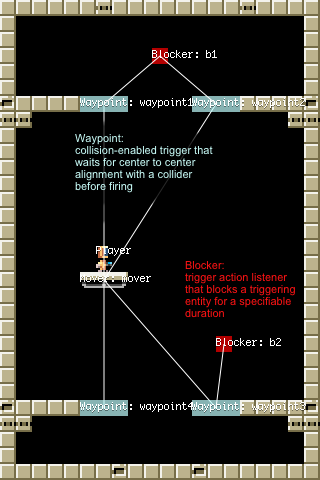
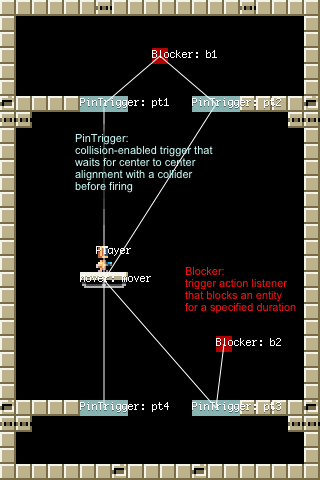
disambiguate Waypoint by renaming it to PinTrigger

diff --git a/lib/game/levels/test2.js b/lib/game/levels/test2.js
@@ -1,6 +1,6 @@
 ig.module( 'game.levels.test2' )
-.requires('impact.image','game.entities.waypoint','game.entities.waypoint','game.entities.waypoint','game.entities.waypoint','game.entities.waypoint','game.entities.waypoint','game.entities.waypoint','game.entities.waypoint','game.entities.waypoint','game.entities.waypoint','game.entities.waypoint','game.entities.waypoint','game.entities.waypoint','game.entities.waypoint','game.entities.waypoint','game.entities.waypoint','game.entities.waypoint','game.entities.waypoint','game.entities.waypoint','game.entities.waypoint','game.entities.waypoint','game.entities.waypoint','game.entities.waypoint','game.entities.waypoint','game.entities.waypoint','game.entities.waypoint','game.entities.waypoint','game.entities.waypoint','game.entities.waypoint','game.entities.waypoint','game.entities.waypoint','game.entities.waypoint','game.entities.waypoint','game.entities.waypoint','game.entities.waypoint','game.entities.waypoint','game.entities.waypoint','game.entities.waypoint','game.entities.waypoint','game.entities.waypoint','game.entities.waypoint','game.entities.waypoint','game.entities.waypoint','game.entities.waypoint','game.entities.waypoint','game.entities.waypoint','game.entities.waypoint','game.entities.waypoint','game.entities.waypoint','game.entities.waypoint','game.entities.waypoint','game.entities.mover')
+.requires('impact.image','game.entities.pin-trigger','game.entities.pin-trigger','game.entities.pin-trigger','game.entities.pin-trigger','game.entities.pin-trigger','game.entities.pin-trigger','game.entities.pin-trigger','game.entities.pin-trigger','game.entities.pin-trigger','game.entities.pin-trigger','game.entities.pin-trigger','game.entities.pin-trigger','game.entities.pin-trigger','game.entities.pin-trigger','game.entities.pin-trigger','game.entities.pin-trigger','game.entities.pin-trigger','game.entities.pin-trigger','game.entities.pin-trigger','game.entities.pin-trigger','game.entities.pin-trigger','game.entities.pin-trigger','game.entities.pin-trigger','game.entities.pin-trigger','game.entities.pin-trigger','game.entities.pin-trigger','game.entities.pin-trigger','game.entities.pin-trigger','game.entities.pin-trigger','game.entities.pin-trigger','game.entities.pin-trigger','game.entities.pin-trigger','game.entities.pin-trigger','game.entities.pin-trigger','game.entities.pin-trigger','game.entities.pin-trigger','game.entities.pin-trigger','game.entities.pin-trigger','game.entities.pin-trigger','game.entities.pin-trigger','game.entities.pin-trigger','game.entities.pin-trigger','game.entities.pin-trigger','game.entities.pin-trigger','game.entities.pin-trigger','game.entities.pin-trigger','game.entities.pin-trigger','game.entities.pin-trigger','game.entities.pin-trigger','game.entities.pin-trigger','game.entities.pin-trigger','game.entities.mover')
 .defines(function(){
-LevelTest2=/*JSON[*/{"entities":[{"type":"EntityWaypoint","x":20,"y":216,"settings":{"size":{"x":8,"y":8},"name":"w01","checks":"A"}},{"type":"EntityWaypoint","x":20,"y":200,"settings":{"size":{"x":8,"y":8},"name":"w02","checks":"A"}},{"type":"EntityWaypoint","x":20,"y":184,"settings":{"size":{"x":8,"y":8},"name":"w03","checks":"A"}},{"type":"EntityWaypoint","x":20,"y":168,"settings":{"size":{"x":8,"y":8},"name":"w04","checks":"A"}},{"type":"EntityWaypoint","x":20,"y":152,"settings":{"size":{"x":8,"y":8},"name":"w05","checks":"A"}},{"type":"EntityWaypoint","x":20,"y":136,"settings":{"size":{"x":8,"y":8},"name":"w06","checks":"A"}},{"type":"EntityWaypoint","x":20,"y":120,"settings":{"size":{"x":8,"y":8},"name":"w07","checks":"A"}},{"type":"EntityWaypoint","x":20,"y":104,"settings":{"size":{"x":8,"y":8},"name":"w08","checks":"A"}},{"type":"EntityWaypoint","x":20,"y":88,"settings":{"size":{"x":8,"y":8},"name":"w09","checks":"A"}},{"type":"EntityWaypoint","x":20,"y":72,"settings":{"size":{"x":8,"y":8},"name":"w10","checks":"A"}},{"type":"EntityWaypoint","x":20,"y":56,"settings":{"size":{"x":8,"y":8},"name":"w11","checks":"A"}},{"type":"EntityWaypoint","x":20,"y":40,"settings":{"size":{"x":8,"y":8},"name":"w12","checks":"A"}},{"type":"EntityWaypoint","x":20,"y":24,"settings":{"size":{"x":8,"y":8},"name":"w13","checks":"A"}},{"type":"EntityWaypoint","x":56,"y":40,"settings":{"size":{"x":8,"y":8},"name":"w15","checks":"A"}},{"type":"EntityWaypoint","x":56,"y":24,"settings":{"size":{"x":8,"y":8},"name":"w14","checks":"A"}},{"type":"EntityWaypoint","x":56,"y":56,"settings":{"size":{"x":8,"y":8},"name":"w16","checks":"A"}},{"type":"EntityWaypoint","x":56,"y":72,"settings":{"size":{"x":8,"y":8},"name":"w17","checks":"A"}},{"type":"EntityWaypoint","x":56,"y":88,"settings":{"size":{"x":8,"y":8},"name":"w18","checks":"A"}},{"type":"EntityWaypoint","x":56,"y":104,"settings":{"size":{"x":8,"y":8},"name":"w19","checks":"A"}},{"type":"EntityWaypoint","x":56,"y":120,"settings":{"size":{"x":8,"y":8},"name":"w20","checks":"A"}},{"type":"EntityWaypoint","x":56,"y":136,"settings":{"size":{"x":8,"y":8},"name":"w21","checks":"A"}},{"type":"EntityWaypoint","x":56,"y":152,"settings":{"size":{"x":8,"y":8},"name":"w21","checks":"A"}},{"type":"EntityWaypoint","x":56,"y":168,"settings":{"size":{"x":8,"y":8},"name":"w22","checks":"A"}},{"type":"EntityWaypoint","x":56,"y":184,"settings":{"size":{"x":8,"y":8},"name":"w23","checks":"A"}},{"type":"EntityWaypoint","x":56,"y":200,"settings":{"size":{"x":8,"y":8},"name":"w24","checks":"A"}},{"type":"EntityWaypoint","x":56,"y":216,"settings":{"size":{"x":8,"y":8},"name":"w25","checks":"A"}},{"type":"EntityWaypoint","x":92,"y":216,"settings":{"size":{"x":8,"y":8},"name":"w26","checks":"A"}},{"type":"EntityWaypoint","x":92,"y":200,"settings":{"size":{"x":8,"y":8},"name":"w27","checks":"A"}},{"type":"EntityWaypoint","x":92,"y":184,"settings":{"size":{"x":8,"y":8},"name":"w28","checks":"A"}},{"type":"EntityWaypoint","x":92,"y":168,"settings":{"size":{"x":8,"y":8},"name":"w29","checks":"A"}},{"type":"EntityWaypoint","x":92,"y":152,"settings":{"size":{"x":8,"y":8},"name":"w30","checks":"A"}},{"type":"EntityWaypoint","x":92,"y":136,"settings":{"size":{"x":8,"y":8},"name":"w31","checks":"A"}},{"type":"EntityWaypoint","x":92,"y":120,"settings":{"size":{"x":8,"y":8},"name":"w32","checks":"A"}},{"type":"EntityWaypoint","x":92,"y":104,"settings":{"size":{"x":8,"y":8},"name":"w33","checks":"A"}},{"type":"EntityWaypoint","x":92,"y":88,"settings":{"size":{"x":8,"y":8},"name":"w34","checks":"A"}},{"type":"EntityWaypoint","x":92,"y":72,"settings":{"size":{"x":8,"y":8},"name":"w35","checks":"A"}},{"type":"EntityWaypoint","x":92,"y":56,"settings":{"size":{"x":8,"y":8},"name":"w36","checks":"A"}},{"type":"EntityWaypoint","x":92,"y":40,"settings":{"size":{"x":8,"y":8},"name":"w37","checks":"A"}},{"type":"EntityWaypoint","x":92,"y":24,"settings":{"size":{"x":8,"y":8},"name":"w38","checks":"A"}},{"type":"EntityWaypoint","x":132,"y":24,"settings":{"size":{"x":8,"y":8},"name":"w39","checks":"A"}},{"type":"EntityWaypoint","x":132,"y":40,"settings":{"size":{"x":8,"y":8},"name":"w40","checks":"A"}},{"type":"EntityWaypoint","x":132,"y":56,"settings":{"size":{"x":8,"y":8},"name":"w41","checks":"A"}},{"type":"EntityWaypoint","x":132,"y":72,"settings":{"size":{"x":8,"y":8},"name":"w42","checks":"A"}},{"type":"EntityWaypoint","x":132,"y":88,"settings":{"size":{"x":8,"y":8},"name":"w43","checks":"A"}},{"type":"EntityWaypoint","x":132,"y":104,"settings":{"size":{"x":8,"y":8},"name":"w44","checks":"A"}},{"type":"EntityWaypoint","x":132,"y":120,"settings":{"size":{"x":8,"y":8},"name":"w45","checks":"A"}},{"type":"EntityWaypoint","x":132,"y":136,"settings":{"size":{"x":8,"y":8},"name":"w46","checks":"A"}},{"type":"EntityWaypoint","x":132,"y":152,"settings":{"size":{"x":8,"y":8},"name":"w47","checks":"A"}},{"type":"EntityWaypoint","x":132,"y":168,"settings":{"size":{"x":8,"y":8},"name":"w48","checks":"A"}},{"type":"EntityWaypoint","x":132,"y":184,"settings":{"size":{"x":8,"y":8},"name":"w49","checks":"A"}},{"type":"EntityWaypoint","x":132,"y":200,"settings":{"size":{"x":8,"y":8},"name":"w50","checks":"A"}},{"type":"EntityMover","x":12,"y":216,"settings":{"target":{"10":"w10","11":"w11","12":"w12","13":"w13","14":"w14","15":"w15","16":"w16","17":"w17","18":"w18","19":"w19","20":"w20","21":"w21","22":"w22","23":"w23","24":"w24","25":"w25","26":"w26","27":"w27","28":"w28","29":"w29","30":"w30","31":"w31","32":"w32","33":"w33","34":"w34","35":"w35","36":"w36","37":"w37","38":"w38","39":"w39","40":"w40","41":"w41","42":"w42","43":"w43","44":"w44","45":"w45","46":"w46","47":"w47","48":"w48","49":"w49","50":"w50","01":"w01","02":"w02","03":"w03","04":"w04","05":"w05","06":"w06","07":"w07","08":"w08","09":"w09"},"name":"mover"}}],"layer":[{"name":"collision","width":20,"height":30,"linkWithCollision":false,"visible":1,"tilesetName":"","repeat":false,"preRender":false,"distance":"1","tilesize":8,"foreground":false,"data":[[1,1,1,1,1,1,1,1,1,1,1,1,1,1,1,1,1,1,1,1],[1,0,0,0,0,0,0,0,0,0,0,0,0,0,0,0,0,0,0,1],[1,0,0,0,0,0,0,0,0,0,0,0,0,0,0,0,0,0,0,1],[1,0,0,0,0,0,0,0,0,0,0,0,0,0,0,0,0,0,0,1],[1,0,0,0,0,0,0,0,0,0,0,0,0,0,0,0,0,0,0,1],[1,0,0,0,0,0,0,0,0,0,0,0,0,0,0,0,0,0,0,1],[1,0,0,0,0,0,0,0,0,0,0,0,0,0,0,0,0,0,0,1],[1,0,0,0,0,0,0,0,0,0,0,0,0,0,0,0,0,0,0,1],[1,0,0,0,0,0,0,0,0,0,0,0,0,0,0,0,0,0,0,1],[1,0,0,0,0,0,0,0,0,0,0,0,0,0,0,0,0,0,0,1],[1,0,0,0,0,0,0,0,0,0,0,0,0,0,0,0,0,0,0,1],[1,0,0,0,0,0,0,0,0,0,0,0,0,0,0,0,0,0,0,1],[1,0,0,0,0,0,0,0,0,0,0,0,0,0,0,0,0,0,0,1],[1,0,0,0,0,0,0,0,0,0,0,0,0,0,0,0,0,0,0,1],[1,0,0,0,0,0,0,0,0,0,0,0,0,0,0,0,0,0,0,1],[1,0,0,0,0,0,0,0,0,0,0,0,0,0,0,0,0,0,0,1],[1,0,0,0,0,0,0,0,0,0,0,0,0,0,0,0,0,0,0,1],[1,0,0,0,0,0,0,0,0,0,0,0,0,0,0,0,0,0,0,1],[1,0,0,0,0,0,0,0,0,0,0,0,0,0,0,0,0,0,0,1],[1,0,0,0,0,0,0,0,0,0,0,0,0,0,0,0,0,0,0,1],[1,0,0,0,0,0,0,0,0,0,0,0,0,0,0,0,0,0,0,1],[1,0,0,0,0,0,0,0,0,0,0,0,0,0,0,0,0,0,0,1],[1,0,0,0,0,0,0,0,0,0,0,0,0,0,0,0,0,0,0,1],[1,0,0,0,0,0,0,0,0,0,0,0,0,0,0,0,0,0,0,1],[1,0,0,0,0,0,0,0,0,0,0,0,0,0,0,0,0,0,0,1],[1,0,0,0,0,0,0,0,0,0,0,0,0,0,0,0,0,0,0,1],[1,0,0,0,0,0,0,0,0,0,0,0,0,0,0,0,0,0,0,1],[1,0,0,0,0,0,0,0,0,0,0,0,0,0,0,0,0,0,0,1],[1,0,0,0,0,0,0,0,0,0,0,0,0,0,0,0,0,0,0,1],[1,1,1,1,1,1,1,1,1,1,1,1,1,1,1,1,1,1,1,1]]},{"name":"main","width":20,"height":30,"linkWithCollision":true,"visible":1,"tilesetName":"media/tiles.png","repeat":false,"preRender":false,"distance":"1","tilesize":8,"foreground":false,"data":[[1,1,1,1,1,1,2,1,1,1,1,1,1,1,1,2,1,1,1,1],[1,0,0,0,0,0,0,0,0,0,0,0,0,0,0,0,0,0,0,1],[1,0,0,0,0,0,0,0,0,0,0,0,0,0,0,0,0,0,0,1],[1,0,0,0,0,0,0,0,0,0,0,0,0,0,0,0,0,0,0,1],[1,0,0,0,0,0,0,0,0,0,0,0,0,0,0,0,0,0,0,1],[1,0,0,0,0,0,0,0,0,0,0,0,0,0,0,0,0,0,0,1],[4,0,0,0,0,0,0,0,0,0,0,0,0,0,0,0,0,0,0,4],[2,0,0,0,0,0,0,0,0,0,0,0,0,0,0,0,0,0,0,2],[1,0,0,0,0,0,0,0,0,0,0,0,0,0,0,0,0,0,0,1],[1,0,0,0,0,0,0,0,0,0,0,0,0,0,0,0,0,0,0,1],[1,0,0,0,0,0,0,0,0,0,0,0,0,0,0,0,0,0,0,1],[1,0,0,0,0,0,0,0,0,0,0,0,0,0,0,0,0,0,0,1],[1,0,0,0,0,0,0,0,0,0,0,0,0,0,0,0,0,0,0,1],[1,0,0,0,0,0,0,0,0,0,0,0,0,0,0,0,0,0,0,1],[1,0,0,0,0,0,0,0,0,0,0,0,0,0,0,0,0,0,0,1],[1,0,0,0,0,0,0,0,0,0,0,0,0,0,0,0,0,0,0,1],[1,0,0,0,0,0,0,0,0,0,0,0,0,0,0,0,0,0,0,1],[1,0,0,0,0,0,0,0,0,0,0,0,0,0,0,0,0,0,0,1],[1,0,0,0,0,0,0,0,0,0,0,0,0,0,0,0,0,0,0,1],[1,0,0,0,0,0,0,0,0,0,0,0,0,0,0,0,0,0,0,1],[1,0,0,0,0,0,0,0,0,0,0,0,0,0,0,0,0,0,0,1],[1,0,0,0,0,0,0,0,0,0,0,0,0,0,0,0,0,0,0,1],[1,0,0,0,0,0,0,0,0,0,0,0,0,0,0,0,0,0,0,1],[1,0,0,0,0,0,0,0,0,0,0,0,0,0,0,0,0,0,0,1],[1,0,0,0,0,0,0,0,0,0,0,0,0,0,0,0,0,0,0,1],[4,0,0,0,0,0,0,0,0,0,0,0,0,0,0,0,0,0,0,4],[2,0,0,0,0,0,0,0,0,0,0,0,0,0,0,0,0,0,0,2],[1,0,0,0,0,0,0,0,0,0,0,0,0,0,0,0,0,0,0,1],[1,0,0,0,0,0,0,0,0,0,0,0,0,0,0,0,0,0,0,1],[1,1,1,1,1,1,1,4,1,1,1,1,4,1,1,1,1,1,1,1]]}]}/*]JSON*/;
+LevelTest2=/*JSON[*/{"entities":[{"type":"EntityPinTrigger","x":20,"y":216,"settings":{"size":{"x":8,"y":8},"name":"pt01","checks":"A"}},{"type":"EntityPinTrigger","x":20,"y":200,"settings":{"size":{"x":8,"y":8},"name":"pt02","checks":"A"}},{"type":"EntityPinTrigger","x":20,"y":184,"settings":{"size":{"x":8,"y":8},"name":"pt03","checks":"A"}},{"type":"EntityPinTrigger","x":20,"y":168,"settings":{"size":{"x":8,"y":8},"name":"pt04","checks":"A"}},{"type":"EntityPinTrigger","x":20,"y":152,"settings":{"size":{"x":8,"y":8},"name":"pt05","checks":"A"}},{"type":"EntityPinTrigger","x":20,"y":136,"settings":{"size":{"x":8,"y":8},"name":"pt06","checks":"A"}},{"type":"EntityPinTrigger","x":20,"y":120,"settings":{"size":{"x":8,"y":8},"name":"pt07","checks":"A"}},{"type":"EntityPinTrigger","x":20,"y":104,"settings":{"size":{"x":8,"y":8},"name":"pt08","checks":"A"}},{"type":"EntityPinTrigger","x":20,"y":88,"settings":{"size":{"x":8,"y":8},"name":"pt09","checks":"A"}},{"type":"EntityPinTrigger","x":20,"y":72,"settings":{"size":{"x":8,"y":8},"name":"pt10","checks":"A"}},{"type":"EntityPinTrigger","x":20,"y":56,"settings":{"size":{"x":8,"y":8},"name":"pt11","checks":"A"}},{"type":"EntityPinTrigger","x":20,"y":40,"settings":{"size":{"x":8,"y":8},"name":"pt12","checks":"A"}},{"type":"EntityPinTrigger","x":20,"y":24,"settings":{"size":{"x":8,"y":8},"name":"pt13","checks":"A"}},{"type":"EntityPinTrigger","x":56,"y":40,"settings":{"size":{"x":8,"y":8},"name":"pt15","checks":"A"}},{"type":"EntityPinTrigger","x":56,"y":24,"settings":{"size":{"x":8,"y":8},"name":"pt14","checks":"A"}},{"type":"EntityPinTrigger","x":56,"y":56,"settings":{"size":{"x":8,"y":8},"name":"pt16","checks":"A"}},{"type":"EntityPinTrigger","x":56,"y":72,"settings":{"size":{"x":8,"y":8},"name":"pt17","checks":"A"}},{"type":"EntityPinTrigger","x":56,"y":88,"settings":{"size":{"x":8,"y":8},"name":"pt18","checks":"A"}},{"type":"EntityPinTrigger","x":56,"y":104,"settings":{"size":{"x":8,"y":8},"name":"pt19","checks":"A"}},{"type":"EntityPinTrigger","x":56,"y":120,"settings":{"size":{"x":8,"y":8},"name":"pt20","checks":"A"}},{"type":"EntityPinTrigger","x":56,"y":136,"settings":{"size":{"x":8,"y":8},"name":"pt21","checks":"A"}},{"type":"EntityPinTrigger","x":56,"y":152,"settings":{"size":{"x":8,"y":8},"name":"pt21","checks":"A"}},{"type":"EntityPinTrigger","x":56,"y":168,"settings":{"size":{"x":8,"y":8},"name":"pt22","checks":"A"}},{"type":"EntityPinTrigger","x":56,"y":184,"settings":{"size":{"x":8,"y":8},"name":"pt23","checks":"A"}},{"type":"EntityPinTrigger","x":56,"y":200,"settings":{"size":{"x":8,"y":8},"name":"pt24","checks":"A"}},{"type":"EntityPinTrigger","x":56,"y":216,"settings":{"size":{"x":8,"y":8},"name":"pt25","checks":"A"}},{"type":"EntityPinTrigger","x":92,"y":216,"settings":{"size":{"x":8,"y":8},"name":"pt26","checks":"A"}},{"type":"EntityPinTrigger","x":92,"y":200,"settings":{"size":{"x":8,"y":8},"name":"pt27","checks":"A"}},{"type":"EntityPinTrigger","x":92,"y":184,"settings":{"size":{"x":8,"y":8},"name":"pt28","checks":"A"}},{"type":"EntityPinTrigger","x":92,"y":168,"settings":{"size":{"x":8,"y":8},"name":"pt29","checks":"A"}},{"type":"EntityPinTrigger","x":92,"y":152,"settings":{"size":{"x":8,"y":8},"name":"pt30","checks":"A"}},{"type":"EntityPinTrigger","x":92,"y":136,"settings":{"size":{"x":8,"y":8},"name":"pt31","checks":"A"}},{"type":"EntityPinTrigger","x":92,"y":120,"settings":{"size":{"x":8,"y":8},"name":"pt32","checks":"A"}},{"type":"EntityPinTrigger","x":92,"y":104,"settings":{"size":{"x":8,"y":8},"name":"pt33","checks":"A"}},{"type":"EntityPinTrigger","x":92,"y":88,"settings":{"size":{"x":8,"y":8},"name":"pt34","checks":"A"}},{"type":"EntityPinTrigger","x":92,"y":72,"settings":{"size":{"x":8,"y":8},"name":"pt35","checks":"A"}},{"type":"EntityPinTrigger","x":92,"y":56,"settings":{"size":{"x":8,"y":8},"name":"pt36","checks":"A"}},{"type":"EntityPinTrigger","x":92,"y":40,"settings":{"size":{"x":8,"y":8},"name":"pt37","checks":"A"}},{"type":"EntityPinTrigger","x":92,"y":24,"settings":{"size":{"x":8,"y":8},"name":"pt38","checks":"A"}},{"type":"EntityPinTrigger","x":132,"y":24,"settings":{"size":{"x":8,"y":8},"name":"pt39","checks":"A"}},{"type":"EntityPinTrigger","x":132,"y":40,"settings":{"size":{"x":8,"y":8},"name":"pt40","checks":"A"}},{"type":"EntityPinTrigger","x":132,"y":56,"settings":{"size":{"x":8,"y":8},"name":"pt41","checks":"A"}},{"type":"EntityPinTrigger","x":132,"y":72,"settings":{"size":{"x":8,"y":8},"name":"pt42","checks":"A"}},{"type":"EntityPinTrigger","x":132,"y":88,"settings":{"size":{"x":8,"y":8},"name":"pt43","checks":"A"}},{"type":"EntityPinTrigger","x":132,"y":104,"settings":{"size":{"x":8,"y":8},"name":"pt44","checks":"A"}},{"type":"EntityPinTrigger","x":132,"y":120,"settings":{"size":{"x":8,"y":8},"name":"pt45","checks":"A"}},{"type":"EntityPinTrigger","x":132,"y":136,"settings":{"size":{"x":8,"y":8},"name":"pt46","checks":"A"}},{"type":"EntityPinTrigger","x":132,"y":152,"settings":{"size":{"x":8,"y":8},"name":"pt47","checks":"A"}},{"type":"EntityPinTrigger","x":132,"y":168,"settings":{"size":{"x":8,"y":8},"name":"pt48","checks":"A"}},{"type":"EntityPinTrigger","x":132,"y":184,"settings":{"size":{"x":8,"y":8},"name":"pt49","checks":"A"}},{"type":"EntityPinTrigger","x":132,"y":200,"settings":{"size":{"x":8,"y":8},"name":"pt50","checks":"A"}},{"type":"EntityMover","x":12,"y":216,"settings":{"target":{"10":"pt10","11":"pt11","12":"pt12","13":"pt13","14":"pt14","15":"pt15","16":"pt16","17":"pt17","18":"pt18","19":"pt19","20":"pt20","21":"pt21","22":"pt22","23":"pt23","24":"pt24","25":"pt25","26":"pt26","27":"pt27","28":"pt28","29":"pt29","30":"pt30","31":"pt31","32":"pt32","33":"pt33","34":"pt34","35":"pt35","36":"pt36","37":"pt37","38":"pt38","39":"pt39","40":"pt40","41":"pt41","42":"pt42","43":"pt43","44":"pt44","45":"pt45","46":"pt46","47":"pt47","48":"pt48","49":"pt49","50":"pt50","01":"pt01","02":"pt02","03":"pt03","04":"pt04","05":"pt05","06":"pt06","07":"pt07","08":"pt08","09":"pt09"},"name":"mover"}}],"layer":[{"name":"collision","width":20,"height":30,"linkWithCollision":false,"visible":1,"tilesetName":"","repeat":false,"preRender":false,"distance":"1","tilesize":8,"foreground":false,"data":[[1,1,1,1,1,1,1,1,1,1,1,1,1,1,1,1,1,1,1,1],[1,0,0,0,0,0,0,0,0,0,0,0,0,0,0,0,0,0,0,1],[1,0,0,0,0,0,0,0,0,0,0,0,0,0,0,0,0,0,0,1],[1,0,0,0,0,0,0,0,0,0,0,0,0,0,0,0,0,0,0,1],[1,0,0,0,0,0,0,0,0,0,0,0,0,0,0,0,0,0,0,1],[1,0,0,0,0,0,0,0,0,0,0,0,0,0,0,0,0,0,0,1],[1,0,0,0,0,0,0,0,0,0,0,0,0,0,0,0,0,0,0,1],[1,0,0,0,0,0,0,0,0,0,0,0,0,0,0,0,0,0,0,1],[1,0,0,0,0,0,0,0,0,0,0,0,0,0,0,0,0,0,0,1],[1,0,0,0,0,0,0,0,0,0,0,0,0,0,0,0,0,0,0,1],[1,0,0,0,0,0,0,0,0,0,0,0,0,0,0,0,0,0,0,1],[1,0,0,0,0,0,0,0,0,0,0,0,0,0,0,0,0,0,0,1],[1,0,0,0,0,0,0,0,0,0,0,0,0,0,0,0,0,0,0,1],[1,0,0,0,0,0,0,0,0,0,0,0,0,0,0,0,0,0,0,1],[1,0,0,0,0,0,0,0,0,0,0,0,0,0,0,0,0,0,0,1],[1,0,0,0,0,0,0,0,0,0,0,0,0,0,0,0,0,0,0,1],[1,0,0,0,0,0,0,0,0,0,0,0,0,0,0,0,0,0,0,1],[1,0,0,0,0,0,0,0,0,0,0,0,0,0,0,0,0,0,0,1],[1,0,0,0,0,0,0,0,0,0,0,0,0,0,0,0,0,0,0,1],[1,0,0,0,0,0,0,0,0,0,0,0,0,0,0,0,0,0,0,1],[1,0,0,0,0,0,0,0,0,0,0,0,0,0,0,0,0,0,0,1],[1,0,0,0,0,0,0,0,0,0,0,0,0,0,0,0,0,0,0,1],[1,0,0,0,0,0,0,0,0,0,0,0,0,0,0,0,0,0,0,1],[1,0,0,0,0,0,0,0,0,0,0,0,0,0,0,0,0,0,0,1],[1,0,0,0,0,0,0,0,0,0,0,0,0,0,0,0,0,0,0,1],[1,0,0,0,0,0,0,0,0,0,0,0,0,0,0,0,0,0,0,1],[1,0,0,0,0,0,0,0,0,0,0,0,0,0,0,0,0,0,0,1],[1,0,0,0,0,0,0,0,0,0,0,0,0,0,0,0,0,0,0,1],[1,0,0,0,0,0,0,0,0,0,0,0,0,0,0,0,0,0,0,1],[1,1,1,1,1,1,1,1,1,1,1,1,1,1,1,1,1,1,1,1]]},{"name":"main","width":20,"height":30,"linkWithCollision":true,"visible":1,"tilesetName":"media/tiles.png","repeat":false,"preRender":false,"distance":"1","tilesize":8,"foreground":false,"data":[[1,1,1,1,1,1,2,1,1,1,1,1,1,1,1,2,1,1,1,1],[1,0,0,0,0,0,0,0,0,0,0,0,0,0,0,0,0,0,0,1],[1,0,0,0,0,0,0,0,0,0,0,0,0,0,0,0,0,0,0,1],[1,0,0,0,0,0,0,0,0,0,0,0,0,0,0,0,0,0,0,1],[1,0,0,0,0,0,0,0,0,0,0,0,0,0,0,0,0,0,0,1],[1,0,0,0,0,0,0,0,0,0,0,0,0,0,0,0,0,0,0,1],[4,0,0,0,0,0,0,0,0,0,0,0,0,0,0,0,0,0,0,4],[2,0,0,0,0,0,0,0,0,0,0,0,0,0,0,0,0,0,0,2],[1,0,0,0,0,0,0,0,0,0,0,0,0,0,0,0,0,0,0,1],[1,0,0,0,0,0,0,0,0,0,0,0,0,0,0,0,0,0,0,1],[1,0,0,0,0,0,0,0,0,0,0,0,0,0,0,0,0,0,0,1],[1,0,0,0,0,0,0,0,0,0,0,0,0,0,0,0,0,0,0,1],[1,0,0,0,0,0,0,0,0,0,0,0,0,0,0,0,0,0,0,1],[1,0,0,0,0,0,0,0,0,0,0,0,0,0,0,0,0,0,0,1],[1,0,0,0,0,0,0,0,0,0,0,0,0,0,0,0,0,0,0,1],[1,0,0,0,0,0,0,0,0,0,0,0,0,0,0,0,0,0,0,1],[1,0,0,0,0,0,0,0,0,0,0,0,0,0,0,0,0,0,0,1],[1,0,0,0,0,0,0,0,0,0,0,0,0,0,0,0,0,0,0,1],[1,0,0,0,0,0,0,0,0,0,0,0,0,0,0,0,0,0,0,1],[1,0,0,0,0,0,0,0,0,0,0,0,0,0,0,0,0,0,0,1],[1,0,0,0,0,0,0,0,0,0,0,0,0,0,0,0,0,0,0,1],[1,0,0,0,0,0,0,0,0,0,0,0,0,0,0,0,0,0,0,1],[1,0,0,0,0,0,0,0,0,0,0,0,0,0,0,0,0,0,0,1],[1,0,0,0,0,0,0,0,0,0,0,0,0,0,0,0,0,0,0,1],[1,0,0,0,0,0,0,0,0,0,0,0,0,0,0,0,0,0,0,1],[4,0,0,0,0,0,0,0,0,0,0,0,0,0,0,0,0,0,0,4],[2,0,0,0,0,0,0,0,0,0,0,0,0,0,0,0,0,0,0,2],[1,0,0,0,0,0,0,0,0,0,0,0,0,0,0,0,0,0,0,1],[1,0,0,0,0,0,0,0,0,0,0,0,0,0,0,0,0,0,0,1],[1,1,1,1,1,1,1,4,1,1,1,1,4,1,1,1,1,1,1,1]]}]}/*]JSON*/;
 LevelTest2Resources=[new ig.Image('media/tiles.png')];
 });

diff --git a/lib/game/levels/test.js b/lib/game/levels/test.js
@@ -1,6 +1,6 @@
 ig.module( 'game.levels.test' )
-.requires('impact.image','game.entities.player','game.entities.mover','game.entities.blocker','game.entities.blocker','game.entities.waypoint','game.entities.waypoint','game.entities.waypoint','game.entities.waypoint')
+.requires('impact.image','game.entities.player','game.entities.mover','game.entities.blocker','game.entities.blocker','game.entities.pin-trigger','game.entities.pin-trigger','game.entities.pin-trigger','game.entities.pin-trigger')
 .defines(function(){
-LevelTest=/*JSON[*/{"entities":[{"type":"EntityPlayer","x":48,"y":122},{"type":"EntityMover","x":40,"y":136,"settings":{"target":{"1":"waypoint1","2":"waypoint2","3":"waypoint3","4":"waypoint4"},"name":"mover"}},{"type":"EntityBlocker","x":76,"y":24,"settings":{"name":"b1","duration":2,"size":{"x":8,"y":8}}},{"type":"EntityBlocker","x":108,"y":168,"settings":{"name":"b2","duration":4,"size":{"x":8,"y":8}}},{"type":"EntityWaypoint","x":40,"y":48,"settings":{"size":{"x":24,"y":8},"name":"waypoint1","target":{"1":"b1"},"checks":"B","enabled":0}},{"type":"EntityWaypoint","x":96,"y":200,"settings":{"size":{"x":24,"y":8},"name":"waypoint3","target":{"1":"b2"},"checks":"B"}},{"type":"EntityWaypoint","x":40,"y":200,"settings":{"size":{"x":24,"y":8},"name":"waypoint4","checks":"B"}},{"type":"EntityWaypoint","x":96,"y":48,"settings":{"size":{"x":24,"y":8},"name":"waypoint2","target":{"1":"b1"},"checks":"B"}}],"layer":[{"name":"collision","width":20,"height":30,"linkWithCollision":false,"visible":1,"tilesetName":"","repeat":false,"preRender":false,"distance":"1","tilesize":8,"foreground":false,"data":[[1,1,1,1,1,1,1,1,1,1,1,1,1,1,1,1,1,1,1,1],[1,0,0,0,0,0,0,0,0,0,0,0,0,0,0,0,0,0,0,1],[1,0,0,0,0,0,0,0,0,0,0,0,0,0,0,0,0,0,0,1],[1,0,0,0,0,0,0,0,0,0,0,0,0,0,0,0,0,0,0,1],[1,0,0,0,0,0,0,0,0,0,0,0,0,0,0,0,0,0,0,1],[1,0,0,0,0,0,0,0,0,0,0,0,0,0,0,0,0,0,0,1],[1,1,1,1,1,0,0,0,0,0,0,0,0,0,0,1,1,1,1,1],[1,1,0,0,0,0,0,0,0,0,0,0,0,0,0,0,0,0,1,1],[1,0,0,0,0,0,0,0,0,0,0,0,0,0,0,0,0,0,0,1],[1,0,0,0,0,0,0,0,0,0,0,0,0,0,0,0,0,0,0,1],[1,0,0,0,0,0,0,0,0,0,0,0,0,0,0,0,0,0,0,1],[1,0,0,0,0,0,0,0,0,0,0,0,0,0,0,0,0,0,0,1],[1,0,0,0,0,0,0,0,0,0,0,0,0,0,0,0,0,0,0,1],[1,0,0,0,0,0,0,0,0,0,0,0,0,0,0,0,0,0,0,1],[1,0,0,0,0,0,0,0,0,0,0,0,0,0,0,0,0,0,0,1],[1,0,0,0,0,0,0,0,0,0,0,0,0,0,0,0,0,0,0,1],[1,0,0,0,0,0,0,0,0,0,0,0,0,0,0,0,0,0,0,1],[1,0,0,0,0,0,0,0,0,0,0,0,0,0,0,0,0,0,0,1],[1,0,0,0,0,0,0,0,0,0,0,0,0,0,0,0,0,0,0,1],[1,0,0,0,0,0,0,0,0,0,0,0,0,0,0,0,0,0,0,1],[1,0,0,0,0,0,0,0,0,0,0,0,0,0,0,0,0,0,0,1],[1,0,0,0,0,0,0,0,0,0,0,0,0,0,0,0,0,0,0,1],[1,0,0,0,0,0,0,0,0,0,0,0,0,0,0,0,0,0,0,1],[1,0,0,0,0,0,0,0,0,0,0,0,0,0,0,0,0,0,0,1],[1,0,0,0,0,0,0,0,0,0,0,0,0,0,0,0,0,0,0,1],[1,1,1,1,1,0,0,0,0,0,0,0,0,0,0,1,1,1,1,1],[1,1,0,0,0,0,0,0,0,0,0,0,0,0,0,0,0,0,1,1],[1,0,0,0,0,0,0,0,0,0,0,0,0,0,0,0,0,0,0,1],[1,0,0,0,0,0,0,0,0,0,0,0,0,0,0,0,0,0,0,1],[1,1,1,1,1,1,1,1,1,1,1,1,1,1,1,1,1,1,1,1]]},{"name":"main","width":20,"height":30,"linkWithCollision":true,"visible":1,"tilesetName":"media/tiles.png","repeat":false,"preRender":false,"distance":"1","tilesize":8,"foreground":false,"data":[[1,1,1,1,1,1,2,1,1,1,1,1,1,1,1,2,1,1,1,1],[1,0,0,0,0,0,0,0,0,0,0,0,0,0,0,0,0,0,0,1],[1,0,0,0,0,0,0,0,0,0,0,0,0,0,0,0,0,0,0,1],[1,0,0,0,0,0,0,0,0,0,0,0,0,0,0,0,0,0,0,1],[1,0,0,0,0,0,0,0,0,0,0,0,0,0,0,0,0,0,0,1],[1,0,0,0,0,0,0,0,0,0,0,0,0,0,0,0,0,0,0,1],[4,1,1,1,1,0,0,0,0,0,0,0,0,0,0,1,1,1,1,4],[2,2,0,0,0,0,0,0,0,0,0,0,0,0,0,0,0,0,2,2],[1,0,0,0,0,0,0,0,0,0,0,0,0,0,0,0,0,0,0,1],[1,0,0,0,0,0,0,0,0,0,0,0,0,0,0,0,0,0,0,1],[1,0,0,0,0,0,0,0,0,0,0,0,0,0,0,0,0,0,0,1],[1,0,0,0,0,0,0,0,0,0,0,0,0,0,0,0,0,0,0,1],[1,0,0,0,0,0,0,0,0,0,0,0,0,0,0,0,0,0,0,1],[1,0,0,0,0,0,0,0,0,0,0,0,0,0,0,0,0,0,0,1],[1,0,0,0,0,0,0,0,0,0,0,0,0,0,0,0,0,0,0,1],[1,0,0,0,0,0,0,0,0,0,0,0,0,0,0,0,0,0,0,1],[1,0,0,0,0,0,0,0,0,0,0,0,0,0,0,0,0,0,0,1],[1,0,0,0,0,0,0,0,0,0,0,0,0,0,0,0,0,0,0,1],[1,0,0,0,0,0,0,0,0,0,0,0,0,0,0,0,0,0,0,1],[1,0,0,0,0,0,0,0,0,0,0,0,0,0,0,0,0,0,0,1],[1,0,0,0,0,0,0,0,0,0,0,0,0,0,0,0,0,0,0,1],[1,0,0,0,0,0,0,0,0,0,0,0,0,0,0,0,0,0,0,1],[1,0,0,0,0,0,0,0,0,0,0,0,0,0,0,0,0,0,0,1],[1,0,0,0,0,0,0,0,0,0,0,0,0,0,0,0,0,0,0,1],[1,0,0,0,0,0,0,0,0,0,0,0,0,0,0,0,0,0,0,1],[4,1,1,1,1,0,0,0,0,0,0,0,0,0,0,1,1,1,1,4],[2,2,0,0,0,0,0,0,0,0,0,0,0,0,0,0,0,0,2,2],[1,0,0,0,0,0,0,0,0,0,0,0,0,0,0,0,0,0,0,1],[1,0,0,0,0,0,0,0,0,0,0,0,0,0,0,0,0,0,0,1],[1,1,1,1,1,1,1,4,1,1,1,1,4,1,1,1,1,1,1,1]]}]}/*]JSON*/;
+LevelTest=/*JSON[*/{"entities":[{"type":"EntityPlayer","x":48,"y":122},{"type":"EntityMover","x":40,"y":136,"settings":{"target":{"1":"pt1","2":"pt2","3":"pt3","4":"pt4"},"name":"mover"}},{"type":"EntityBlocker","x":76,"y":24,"settings":{"name":"b1","duration":2,"size":{"x":8,"y":8}}},{"type":"EntityBlocker","x":108,"y":168,"settings":{"name":"b2","duration":4,"size":{"x":8,"y":8}}},{"type":"EntityPinTrigger","x":40,"y":48,"settings":{"size":{"x":24,"y":8},"name":"pt1","target":{"1":"b1"},"checks":"B","enabled":0}},{"type":"EntityPinTrigger","x":96,"y":200,"settings":{"size":{"x":24,"y":8},"name":"pt3","target":{"1":"b2"},"checks":"B"}},{"type":"EntityPinTrigger","x":40,"y":200,"settings":{"size":{"x":24,"y":8},"name":"pt4","checks":"B"}},{"type":"EntityPinTrigger","x":96,"y":48,"settings":{"size":{"x":24,"y":8},"name":"pt2","target":{"1":"b1"},"checks":"B"}}],"layer":[{"name":"collision","width":20,"height":30,"linkWithCollision":false,"visible":1,"tilesetName":"","repeat":false,"preRender":false,"distance":"1","tilesize":8,"foreground":false,"data":[[1,1,1,1,1,1,1,1,1,1,1,1,1,1,1,1,1,1,1,1],[1,0,0,0,0,0,0,0,0,0,0,0,0,0,0,0,0,0,0,1],[1,0,0,0,0,0,0,0,0,0,0,0,0,0,0,0,0,0,0,1],[1,0,0,0,0,0,0,0,0,0,0,0,0,0,0,0,0,0,0,1],[1,0,0,0,0,0,0,0,0,0,0,0,0,0,0,0,0,0,0,1],[1,0,0,0,0,0,0,0,0,0,0,0,0,0,0,0,0,0,0,1],[1,1,1,1,1,0,0,0,0,0,0,0,0,0,0,1,1,1,1,1],[1,1,0,0,0,0,0,0,0,0,0,0,0,0,0,0,0,0,1,1],[1,0,0,0,0,0,0,0,0,0,0,0,0,0,0,0,0,0,0,1],[1,0,0,0,0,0,0,0,0,0,0,0,0,0,0,0,0,0,0,1],[1,0,0,0,0,0,0,0,0,0,0,0,0,0,0,0,0,0,0,1],[1,0,0,0,0,0,0,0,0,0,0,0,0,0,0,0,0,0,0,1],[1,0,0,0,0,0,0,0,0,0,0,0,0,0,0,0,0,0,0,1],[1,0,0,0,0,0,0,0,0,0,0,0,0,0,0,0,0,0,0,1],[1,0,0,0,0,0,0,0,0,0,0,0,0,0,0,0,0,0,0,1],[1,0,0,0,0,0,0,0,0,0,0,0,0,0,0,0,0,0,0,1],[1,0,0,0,0,0,0,0,0,0,0,0,0,0,0,0,0,0,0,1],[1,0,0,0,0,0,0,0,0,0,0,0,0,0,0,0,0,0,0,1],[1,0,0,0,0,0,0,0,0,0,0,0,0,0,0,0,0,0,0,1],[1,0,0,0,0,0,0,0,0,0,0,0,0,0,0,0,0,0,0,1],[1,0,0,0,0,0,0,0,0,0,0,0,0,0,0,0,0,0,0,1],[1,0,0,0,0,0,0,0,0,0,0,0,0,0,0,0,0,0,0,1],[1,0,0,0,0,0,0,0,0,0,0,0,0,0,0,0,0,0,0,1],[1,0,0,0,0,0,0,0,0,0,0,0,0,0,0,0,0,0,0,1],[1,0,0,0,0,0,0,0,0,0,0,0,0,0,0,0,0,0,0,1],[1,1,1,1,1,0,0,0,0,0,0,0,0,0,0,1,1,1,1,1],[1,1,0,0,0,0,0,0,0,0,0,0,0,0,0,0,0,0,1,1],[1,0,0,0,0,0,0,0,0,0,0,0,0,0,0,0,0,0,0,1],[1,0,0,0,0,0,0,0,0,0,0,0,0,0,0,0,0,0,0,1],[1,1,1,1,1,1,1,1,1,1,1,1,1,1,1,1,1,1,1,1]]},{"name":"main","width":20,"height":30,"linkWithCollision":true,"visible":1,"tilesetName":"media/tiles.png","repeat":false,"preRender":false,"distance":"1","tilesize":8,"foreground":false,"data":[[1,1,1,1,1,1,2,1,1,1,1,1,1,1,1,2,1,1,1,1],[1,0,0,0,0,0,0,0,0,0,0,0,0,0,0,0,0,0,0,1],[1,0,0,0,0,0,0,0,0,0,0,0,0,0,0,0,0,0,0,1],[1,0,0,0,0,0,0,0,0,0,0,0,0,0,0,0,0,0,0,1],[1,0,0,0,0,0,0,0,0,0,0,0,0,0,0,0,0,0,0,1],[1,0,0,0,0,0,0,0,0,0,0,0,0,0,0,0,0,0,0,1],[4,1,1,1,1,0,0,0,0,0,0,0,0,0,0,1,1,1,1,4],[2,2,0,0,0,0,0,0,0,0,0,0,0,0,0,0,0,0,2,2],[1,0,0,0,0,0,0,0,0,0,0,0,0,0,0,0,0,0,0,1],[1,0,0,0,0,0,0,0,0,0,0,0,0,0,0,0,0,0,0,1],[1,0,0,0,0,0,0,0,0,0,0,0,0,0,0,0,0,0,0,1],[1,0,0,0,0,0,0,0,0,0,0,0,0,0,0,0,0,0,0,1],[1,0,0,0,0,0,0,0,0,0,0,0,0,0,0,0,0,0,0,1],[1,0,0,0,0,0,0,0,0,0,0,0,0,0,0,0,0,0,0,1],[1,0,0,0,0,0,0,0,0,0,0,0,0,0,0,0,0,0,0,1],[1,0,0,0,0,0,0,0,0,0,0,0,0,0,0,0,0,0,0,1],[1,0,0,0,0,0,0,0,0,0,0,0,0,0,0,0,0,0,0,1],[1,0,0,0,0,0,0,0,0,0,0,0,0,0,0,0,0,0,0,1],[1,0,0,0,0,0,0,0,0,0,0,0,0,0,0,0,0,0,0,1],[1,0,0,0,0,0,0,0,0,0,0,0,0,0,0,0,0,0,0,1],[1,0,0,0,0,0,0,0,0,0,0,0,0,0,0,0,0,0,0,1],[1,0,0,0,0,0,0,0,0,0,0,0,0,0,0,0,0,0,0,1],[1,0,0,0,0,0,0,0,0,0,0,0,0,0,0,0,0,0,0,1],[1,0,0,0,0,0,0,0,0,0,0,0,0,0,0,0,0,0,0,1],[1,0,0,0,0,0,0,0,0,0,0,0,0,0,0,0,0,0,0,1],[4,1,1,1,1,0,0,0,0,0,0,0,0,0,0,1,1,1,1,4],[2,2,0,0,0,0,0,0,0,0,0,0,0,0,0,0,0,0,2,2],[1,0,0,0,0,0,0,0,0,0,0,0,0,0,0,0,0,0,0,1],[1,0,0,0,0,0,0,0,0,0,0,0,0,0,0,0,0,0,0,1],[1,1,1,1,1,1,1,4,1,1,1,1,4,1,1,1,1,1,1,1]]}]}/*]JSON*/;
 LevelTestResources=[new ig.Image('media/tiles.png')];
 });

diff --git a/lib/game/entities/pin-trigger.js b/lib/game/entities/pin-trigger.js
@@ -1,4 +1,6 @@
 /*
+EntityPinTrigger
+
 This entity calls the triggeredBy method of one or more targets when it
 and another entity of a specific collision type overlap at the almost-same
 position.
@@ -14,7 +16,7 @@ tolerance
 	Default: 0.5
 
 enabled
-	Waypoint is operational (true) or not (false)
+	entity is operational or not
 	Default: true
 	
 target.1, target.2 ... target.n
@@ -23,14 +25,14 @@ target.1, target.2 ... target.n
 */
 
 ig.module(
-	'game.entities.waypoint'
+	'game.entities.pin-trigger'
 )
 .requires(
 	'impact.entity'
 )
 .defines(function(){
 
-EntityWaypoint = ig.Entity.extend({
+EntityPinTrigger = ig.Entity.extend({
 	size: {x: 16, y: 16},
 	
 	_wmScalable: true,

diff --git a/lib/game/entities/blocker.js b/lib/game/entities/blocker.js
@@ -1,11 +1,13 @@
 /*
-This entity stops the movement of all all triggering
+EntityBlocker
+
+This entity stops the movement of all triggering
 entities and releases them after a specified duration.
 
-E.g.: Set an EntityBlocker as the target of any kind of
-trigger (EntityTrigger, EntityWaypoint, etc). When the
-triggeredBy call is received, this will stop the (triggering)
-entity in its track.
+E.g.: Set a Blocker as the target of any kind of
+trigger (EntityTrigger, PinTrigger, etc). When the
+triggeredBy call is received, this will stop the
+(triggering) entity in its track.
 
 Keys for Weltmeister:
 

diff --git a/README.md b/README.md
@@ -1,10 +1,10 @@
 # Entity Extras for ImpactJS #
 
 # Entities
-* waypoint: This entity calls the triggeredBy method of one or more targets
-  when it and another entity of a specific collision type overlap at the
-  almost-same position.
-* blocker: This entity stops the movement of all all triggering entities
+* EntityPinTrigger: This entity calls the triggeredBy method of one or more
+  targets when it and another entity of a specific collision type overlap at
+  the almost-same position.
+* EntityBlocker: This entity stops the movement of all all triggering entities
   and releases them after a specified duration.
 
 
@@ -18,6 +18,6 @@
 # Info
 * Created by Alexandre Rousseau for [gamecubate](http://www.gamecubate.com)
 * Use at will but at own risk.
-* Sample project at http://www.gamecubate.com/playground/waypoints_and_blockers .
+* Sample project at http://www.gamecubate.com/playground/pin_triggers_and_blockers .
 * You can reach me by email (alexr at gamecubate dot com) or via the Impact
   forums (alexandre).
